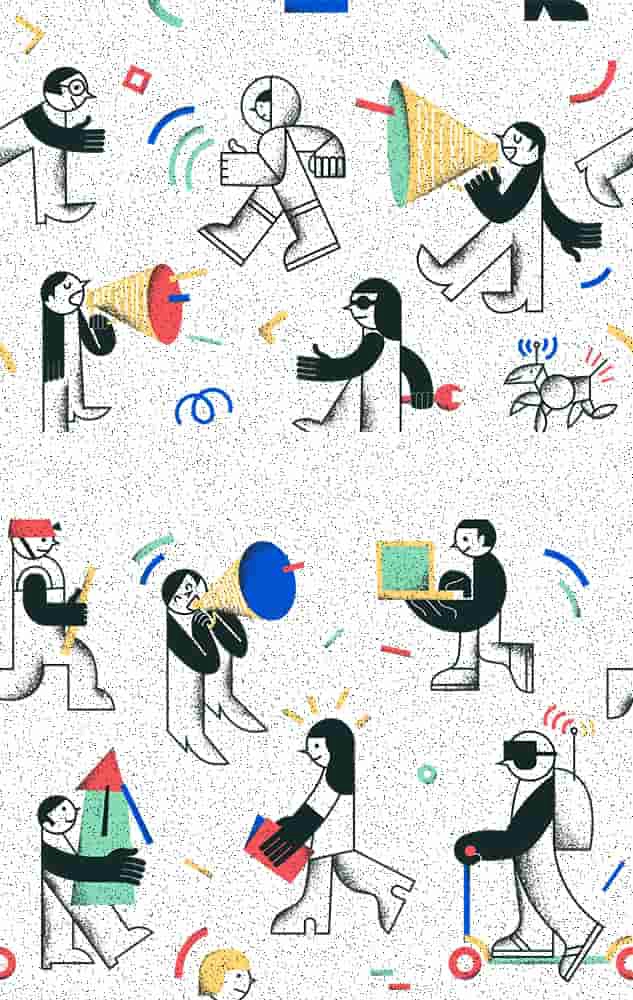
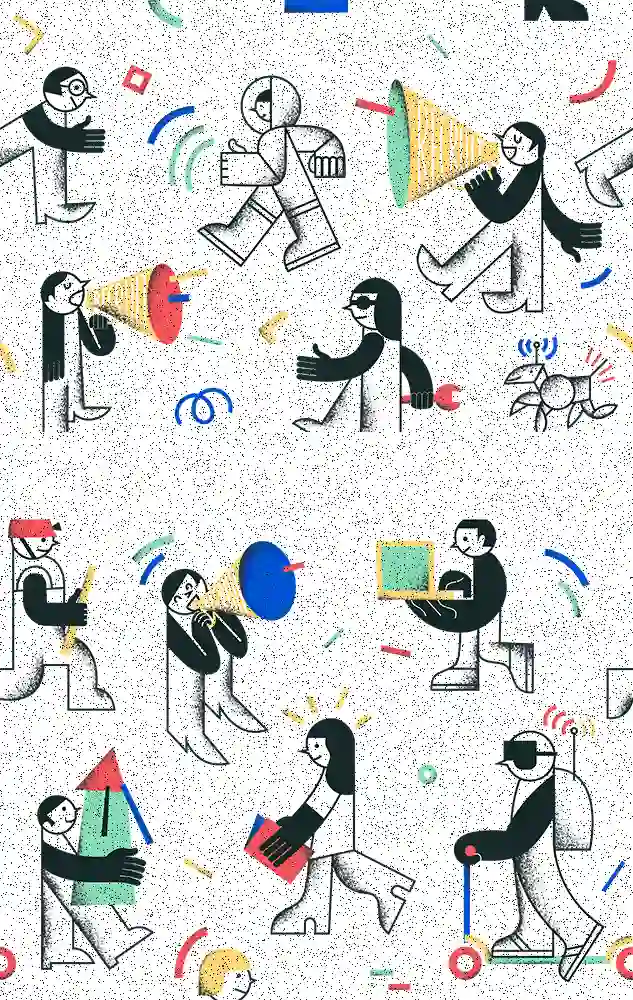
IO-211: ужал webp до 5%; поправил медиавыражения для @3

Changed region(s): [[0.0, 0.0, 1.0, 1.0]]

diff --git a/components/jobs/Vacancies.js b/components/jobs/Vacancies.js
@@ -301,7 +301,7 @@ const Vacancies = props =>
       @media
       only screen and (-webkit-min-device-pixel-ratio: 3),
       only screen and (min-resolution: 288dpi),
-      only screen and (min-resolution: 2dppx) {
+      only screen and (min-resolution: 3dppx) {
         .half-page-picture {
           background-image: url(/static/images/jobs/cover@3x.jpg);
         }
